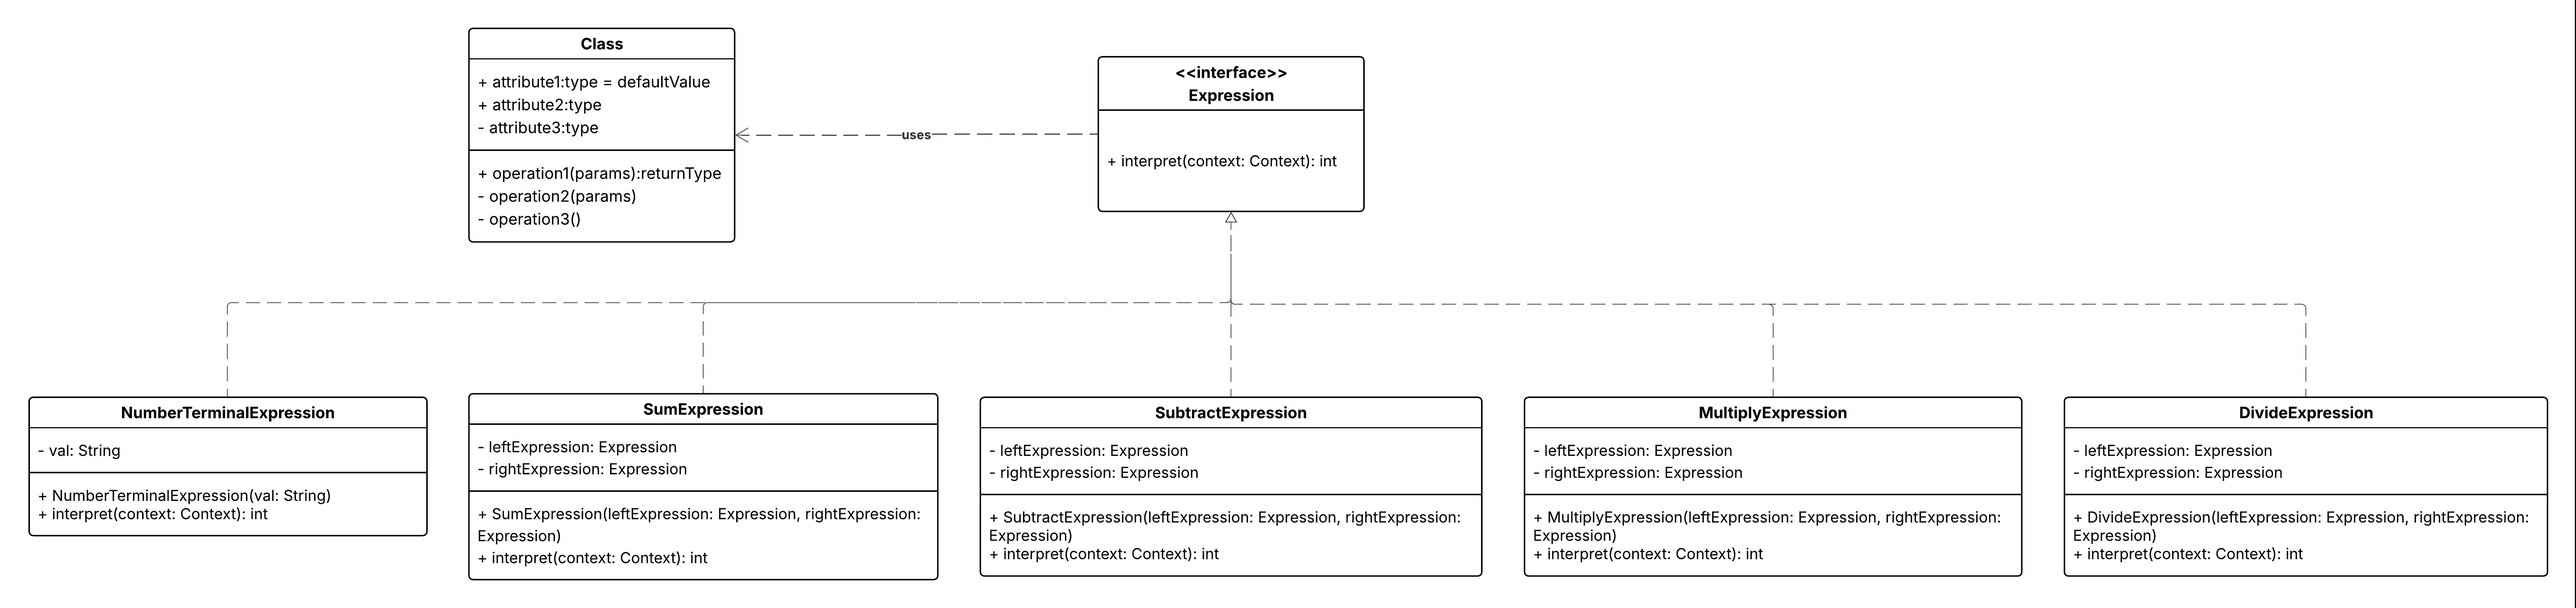
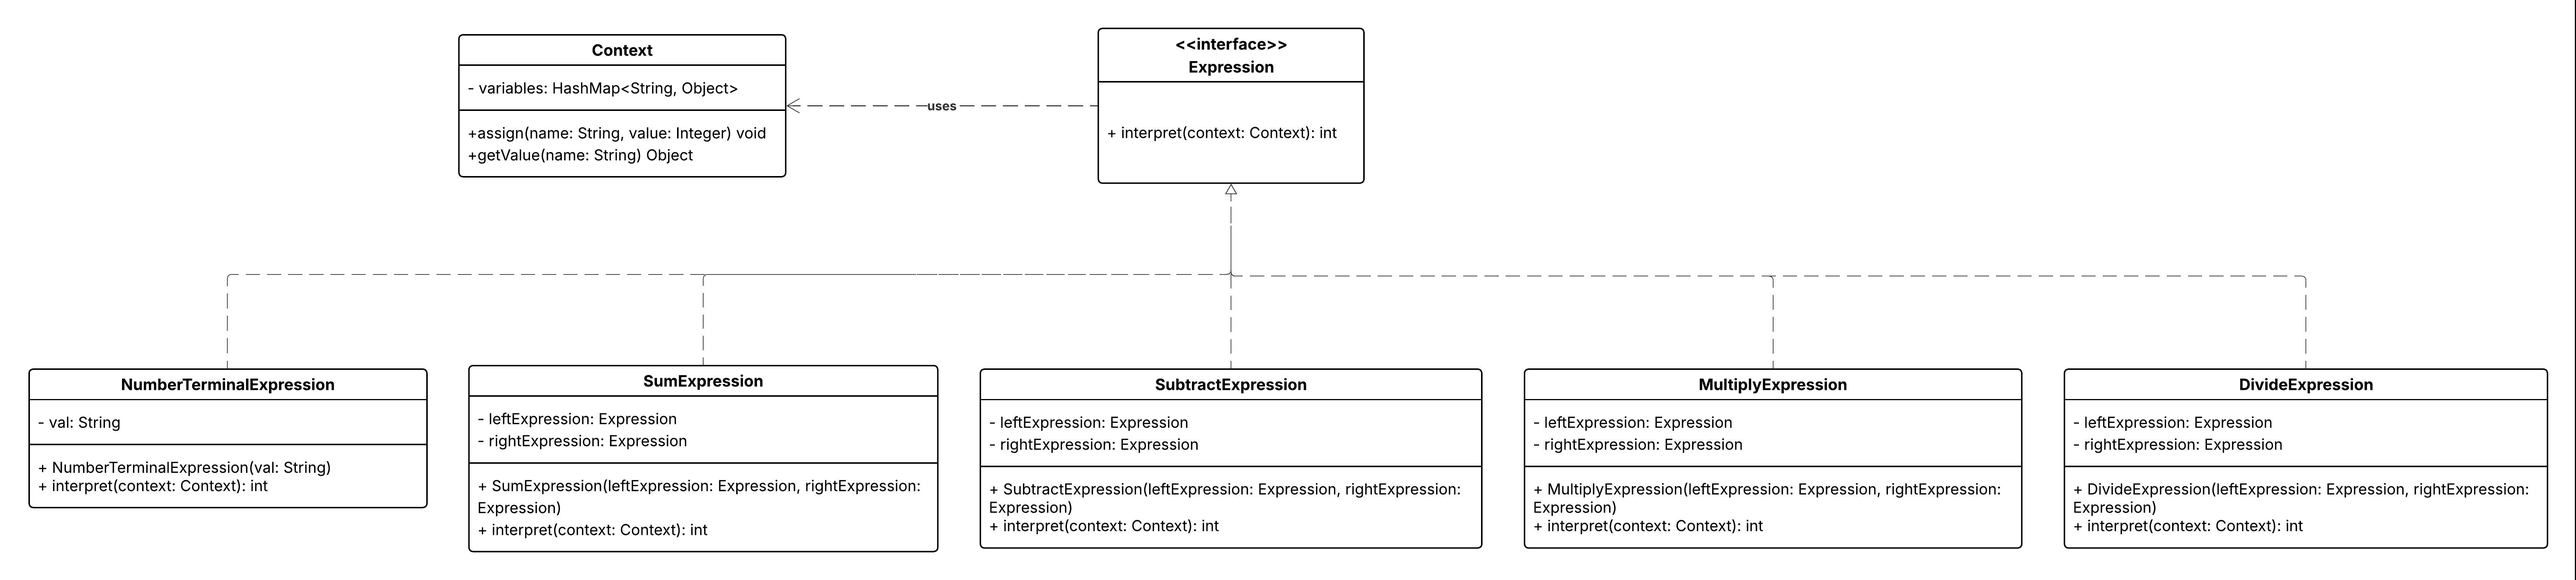
added interpreter design pattern.

diff --git a/interpreter-design-pattern/src/main/java/io/github/kartiksethi/Context.java b/interpreter-design-pattern/src/main/java/io/github/kartiksethi/Context.java
@@ -3,7 +3,7 @@ package io.github.kartiksethi;
 import java.util.HashMap;
 
 public class Context {
-    HashMap<String, Object> variables = new HashMap<>();
+    private final HashMap<String, Object> variables = new HashMap<>();
 
     public void assign(String name, Integer value) {
         variables.put(name, value);
